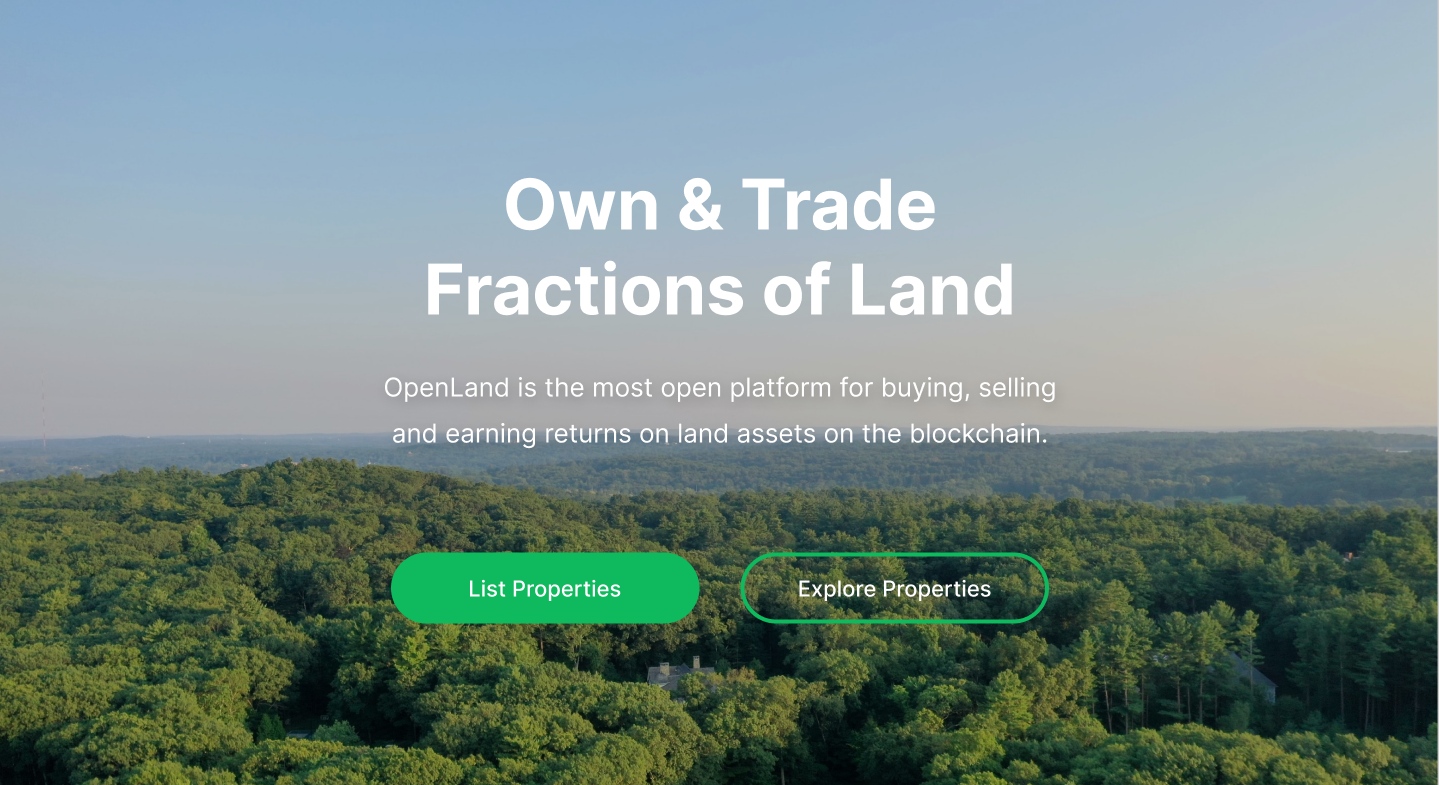
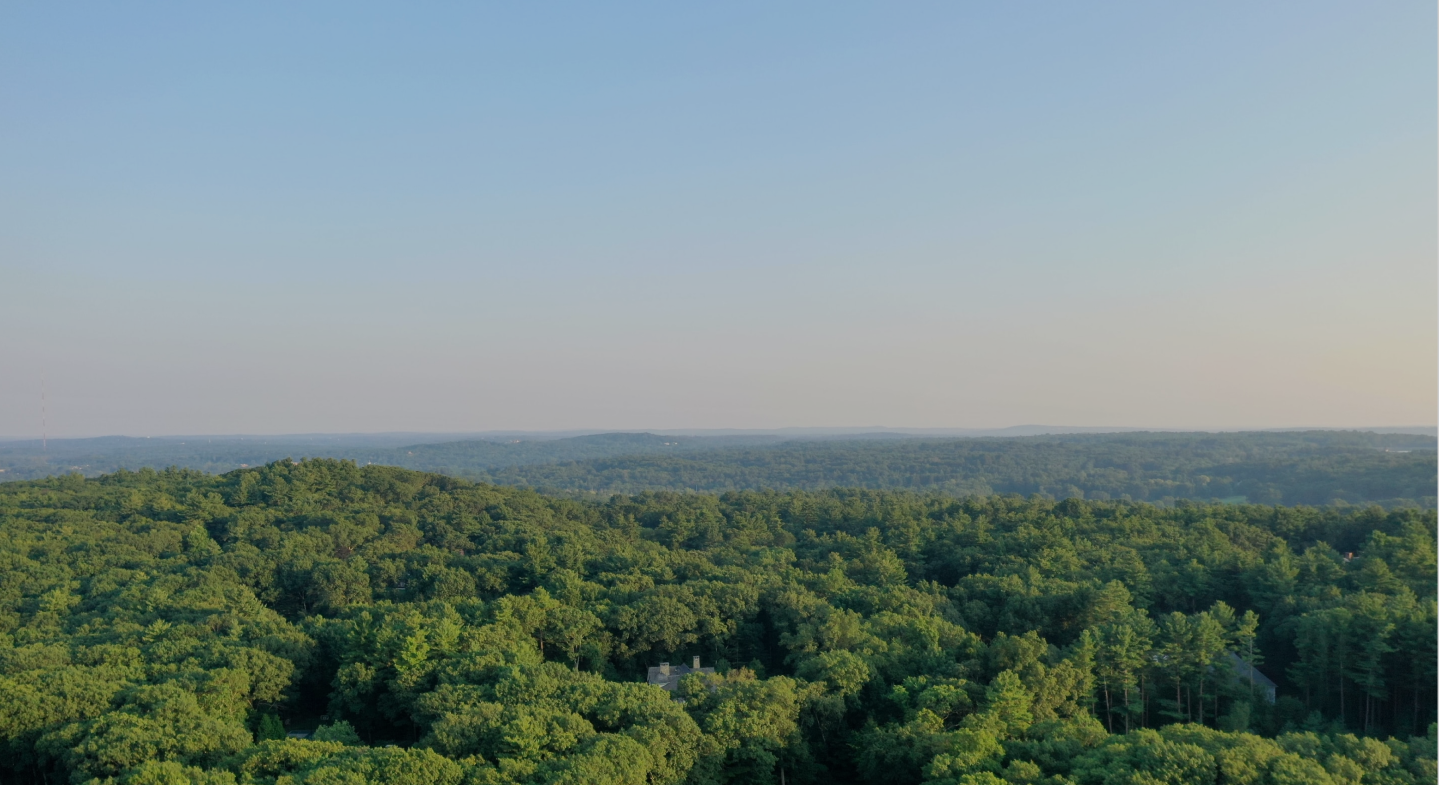
FIx mobile responsive layout

diff --git a/pages/index.tsx b/pages/index.tsx
@@ -1,5 +1,6 @@
 import type { NextPage } from "next";
 import Head from "next/head";
+import Link from "next/link";
 
 import FeaturesCard from "../components/pages/index/FeaturesCard/FeaturesCard";
 import AffordableIcon from "../public/assets/images/svg/affordable.svg";
@@ -7,6 +8,8 @@ import truthlessIcon from "../public/assets/images/svg/truthless.svg";
 import daoIcon from "../public/assets/images/svg/dao.svg";
 import commodityIcon from "../public/assets/images/svg/commodity.svg";
 import PropertiesCard from "../components/pages/index/PropertiesCard/PropertiesCard";
+import Button from "../components/ui/Button/Button";
+import TeamCard from "../components/TeamCard/TeamCard";
 
 const Home: NextPage = () => {
   return (
@@ -18,11 +21,21 @@ const Home: NextPage = () => {
       </Head>
 
       {/* HERO SECTION */}
-      <header className="w-full h-[80vh] bg-red-50 relative">
-        <img
-          src="/assets/images/png/hero.png"
-          className="w-full h-full object-cover"
-        />
+      <header className="w-full h-[80vh] lg:h-[100vh] grid place-content-center bg-[url('/assets/images/png/hero.png')]">
+        <div className="2xl:w-[710px] w-[345px] lg:w-[648px]">
+          <h1 className="mb-[33px] font-bold 2xl:text-[70px] text-[36px] lg:text-[64px] text-center text-white">
+            Own &amp; Trade Fractions of Land
+          </h1>
+          <p className="text-base lg:text-xl text-center text-white 2xl:text-[26px] mb-8 lg:mb-[96px]">
+            OpenLand is the most open platform for buying, selling and earning
+            returns on land assets on the blockchain.
+          </p>
+          <div className="flex-col lg:flex-row flex justify-between">
+            <Button btnType="fill">List your property</Button>
+            <div className="mb-4 lg:mb-0 lg:hidden" />
+            <Button btnType="outline">Explore Properties</Button>
+          </div>
+        </div>
       </header>
 
       {/* FEATURES */}
@@ -56,6 +69,11 @@ const Home: NextPage = () => {
           * The values mentioned are just for examples only and do not mean
           actual ownership figures in a particular vault.
         </p>
+        <div className="flex-col lg:flex-row flex w-full lg:w-[550px] mx-auto justify-between">
+          <Button btnType="fill">List your property</Button>
+          <div className="mb-4 lg:mb-0 lg:hidden" />
+          <Button btnType="outline">Explore Properties</Button>
+        </div>
       </section>
 
       {/* FEATURED PROPERTIES */}
@@ -70,7 +88,9 @@ const Home: NextPage = () => {
             </p>
           </div>
 
-          <span>BUTTON</span>
+          <div className="hidden lg:block">
+            <Button btnType="outline-white">View all</Button>
+          </div>
         </div>
 
         <div className={styles.featuredPropertiesCardContainer}>
@@ -78,19 +98,77 @@ const Home: NextPage = () => {
             return <PropertiesCard key={idx} property={property} />;
           })}
         </div>
+
+        <div className="grid place-content-center lg:hidden">
+          <Button btnType="outline-white">View all</Button>
+        </div>
       </section>
 
-      <section className="bg-[#F9F9F9] py-[120px] px-[70px]">
-          <h3 className="font-semibold text-[42px] mb-20">Built on</h3>
+      <section className="bg-[#F9F9F9] py-[120px] px-4 lg:px-[70px]">
+        <h3 className="font-semibold text-[42px] text-center lg:text-left mb-20">Built on</h3>
 
-          <div className="flex items-center">
-            <img src="/assets/images/svg/moonriver.svg" className="w-[511px] h-[108px]" alt="moon_river" />
-            <img src="/assets/images/svg/moonbeam.svg" className="w-[571px] h-[160px]" alt="moon_beam" />
-          </div>
+        <div className="flex lg:flex-row flex-col items-center">
+          <img
+            src="/assets/images/svg/moonriver.svg"
+            className="w-[511px] h-[108px]"
+            alt="moon_river"
+          />
+          <img
+            src="/assets/images/svg/moonbeam.svg"
+            className="w-[571px] h-[160px]"
+            alt="moon_beam"
+          />
+        </div>
+      </section>
+
+      <section className="py-[120px] px-4 lg:px-[70px]">
+        <h3 className="mb-[27px] font-semibold text-[42px]">
+          The Team behind OpenLand
+        </h3>
+
+        <p className="text-lg text-[#555555]">
+          OpenLand was built with love for Africa{" "}
+          <span className="text-red-500">&hearts;</span>{" "}
+          <span className="text-sm">Powered by</span>{" "}
+          <Link href="#">
+            <a className="font-normal text-lg text-black underline">
+              Origne LLC
+            </a>
+          </Link>
+        </p>
+
+        <div className="mt-[75px] flex flex-wrap">
+          {TEAMS.map((team) => (
+            <TeamCard team={team} key={team.name} />
+          ))}
+        </div>
       </section>
     </>
   );
 };
+
+const TEAMS = [
+  {
+    image: "/assets/images/png/avatar.png",
+    name: "Oluwafemi Alofe",
+    title: "Blockchain Developer",
+  },
+  {
+    image: "/assets/images/png/avatar.png",
+    name: "Emmanuel Joseph",
+    title: "Fullstack Developer",
+  },
+  {
+    image: "/assets/images/png/avatar.png",
+    name: "Paul Oladimeji",
+    title: "Product Manager",
+  },
+  {
+    image: "/assets/images/png/avatar.png",
+    name: "Abosede Mayungbe",
+    title: "Product Designer",
+  },
+];
 
 const APPLICATION_FEATURES = [
   {
@@ -175,22 +253,24 @@ const FEATURED_PROPERTIES = [
 ];
 
 const styles = {
-  featuresContainer: "py-[120px] bg-color-tertiary",
+  featuresContainer: "lg:py-[120px] py-[64px] bg-color-tertiary",
   featuresHeading: "mb-16",
   featuresHeadingText: "font-semibold text-[42px] text-center mb-3",
-  featuresHeadingDescription: "max-w-3xl mx-auto text-center",
-  FeaturesCardContainer: "grid gap-6 grid-cols-4 mx-[70px]",
-  descriptionImageContainer: "py-[120px]",
-  descriptionImageContainer_: "2xl:w-[1137px] w-[1039px] mx-auto mb-[62px]",
+  featuresHeadingDescription:
+    "max-w-3xl text-[18px] text-[#555555] px-4 mx-auto text-center",
+  FeaturesCardContainer: "flex flex-wrap mx-[16px] lg:mx-[70px]",
+  descriptionImageContainer: "lg:py-[120px] py-[60px] lg:px-0 px-[16px]",
+  descriptionImageContainer_:
+    "2xl:w-[1137px] w-full lg:w-[1039px] mx-auto mb-[62px]",
   descriptionImage: "w-full h-full object-cover",
   descriptionImageDescription:
-    "ml-auto text-right max-w-[543px] 2xl:max-w-[597px] mr-[70px] text-[#999999] text-sm",
+    "ml-auto text-right max-w-[543px] 2xl:max-w-[597px] lg:mr-[70px] text-[#999999] text-xs lg:text-sm mb-[70px]",
   featuredPropertiesContainer:
-    "bg-color-secondary px-16 2xl:px-[72px] py-[120px]",
+    "bg-color-secondary px-[16px] 2xl:px-[72px] py-[60px] lg:py-[120px]",
   featuredPropertiesContainer_: "mb-[82px] flex items-center justify-between",
   featuredPropertiesContainerHeading: "text-[42px] font-semibold text-white",
   featuredPropertiesContainerDescription: "text-lg text-white",
-  featuredPropertiesCardContainer: "grid grid-cols-3",
+  featuredPropertiesCardContainer: "flex flex-wrap",
 };
 
 export default Home;

diff --git a/components/Footer/Footer.tsx b/components/Footer/Footer.tsx
@@ -1,8 +1,8 @@
 const Footer = () => {
   return (
-    <footer className="bg-[#002C14] p-[70px]">
-      <div className="flex items-center justify-between mb-[64px]">
-        <div>
+    <footer className="bg-[#002C14] px-4 py-16 lg:p-[70px]">
+      <div className="flex px-4 flex-col lg:flex-row items-center justify-between mb-[64px]">
+        <div className="mb-8 lg:mb-0">
           <img
             src="/assets/images/svg/logo-text.svg"
             alt="logo"
@@ -14,32 +14,32 @@ const Footer = () => {
         </div>
 
         <ul className="flex">
-          <li className="w-[57px] cursor-pointer h-[57px] grid place-content-center mr-8 rounded-[50%] bg-[#E3FCEF]">
+          <li className="w-[57px] cursor-pointer h-[57px] grid place-content-center mr-8 rounded-[50%] bg-[rgba(227,252,239,0.24)]">
             <img
               src="/assets/images/svg/twitter.svg"
               alt="twitter"
-              className="w-[41px] h-[41px]"
+              className="w-6 lg:w-[41px] h-6 lg:h-[41px]"
             />
           </li>
-          <li className="w-[57px] cursor-pointer h-[57px] grid place-content-center mr-8 rounded-[50%] bg-[#E3FCEF]">
+          <li className="w-[57px] cursor-pointer h-[57px] grid place-content-center mr-8 rounded-[50%] bg-[rgba(227,252,239,0.24)]">
             <img
               src="/assets/images/svg/instagram.svg"
               alt="instagram"
-              className="w-[41px] h-[41px]"
+              className="w-6 lg:w-[41px] h-6 lg:h-[41px]"
             />
           </li>
-          <li className="w-[57px] cursor-pointer h-[57px] grid place-content-center mr-8 rounded-[50%] bg-[#E3FCEF]">
+          <li className="w-[57px] cursor-pointer h-[57px] grid place-content-center mr-8 rounded-[50%] bg-[rgba(227,252,239,0.24)]">
             <img
               src="/assets/images/svg/telegram.svg"
               alt="telegram"
-              className="w-[41px] h-[41px]"
+              className="w-6 lg:w-[41px] h-6 lg:h-[41px]"
             />
           </li>
-          <li className="w-[57px] cursor-pointer h-[57px] grid place-content-center mr-8 rounded-[50%] bg-[#E3FCEF]">
+          <li className="w-[57px] cursor-pointer h-[57px] grid place-content-center mr-8 rounded-[50%] bg-[rgba(227,252,239,0.24)]">
             <img
               src="/assets/images/svg/youtube.svg"
               alt="youtube"
-              className="w-[41px] h-[41px]"
+              className="w-6 lg:w-[41px] h-6 lg:h-[41px]"
             />
           </li>
         </ul>
@@ -47,7 +47,9 @@ const Footer = () => {
 
       <hr className="border border-white" />
 
-      <p className="font-light text-sm mt-6 text-white">Copyright © OpenLand 2022. All rights reserved. </p>
+      <p className="font-light text-sm mt-6 text-white">
+        Copyright © OpenLand 2022. All rights reserved.{" "}
+      </p>
     </footer>
   );
 };

diff --git a/components/ui/Button/Button.tsx b/components/ui/Button/Button.tsx
@@ -2,25 +2,22 @@ import { FC, ReactNode } from "react";
 
 interface ButtonProps {
   children: ReactNode;
-  btnType: "outline" | "fill";
-  padding: string;
-  fontSize: string;
-  fontWeight: string;
+  btnType: "outline" | "fill" | "outline-white";
 }
 
 const Button: FC<ButtonProps> = (props) => {
-  const { children, btnType, padding, fontSize, fontWeight } = props;
+  const { children, btnType } = props;
 
-  const outline_or_fill =
+  const outline_or_fill_or_outline_white =
     btnType === "fill"
-      ? ""
+      ? "bg-color-primary text-white"
       : btnType === "outline"
-      ? "bg-white border border-color-primary text-color-primary"
-      : "";
+      ? "bg-transparent border text-color-primary border-color-primary"
+      : "bg-transparent border border-color-tertiary text-white opacity-90";
 
   return (
     <button
-      className={`${outline_or_fill} ${padding} ${fontSize} ${fontWeight} rounded-[40px]`}
+      className={`${outline_or_fill_or_outline_white} hover:shadow-md hover:-translate-y-1 duration-100 px-11 py-[17px] font-medium rounded-[40px]`}
     >
       {children}
     </button>

diff --git a/components/TeamCard/TeamCard.tsx b/components/TeamCard/TeamCard.tsx
@@ -1,0 +1,38 @@
+import { FC } from "react";
+
+interface TeamCardProps {
+  team: {
+    image: string;
+    name: string;
+    title: string;
+    linkedinURL?: string;
+  };
+}
+
+const TeamCard: FC<TeamCardProps> = (props) => {
+  const {
+    team: { image, name, title, linkedinURL },
+  } = props;
+
+  return (
+    <div className="2xl:w-[313.5px] w-[286px] mb-5 hover:-translate-y-1 duration-100 hover:shadow-md mx-auto py-10 px-[39px] 2xl:px-[44.75px] rounded-lg bg-color-tertiary">
+      <div className="w-[204px] 2xl:w-[218px] h-[204px] 2xl:h-[218px] rounded-[50%] mb-10">
+        <img src={image} alt={name} className="w-full h-full object-cover" />
+      </div>
+
+      <div className="flex items-center justify-between">
+        <div>
+          <h6 className="font-medium text-xl text-[#16231C] mb-1">{name}</h6>
+          <p className="font-medium text-color-primary">{title}</p>
+        </div>
+
+        <img
+          src="/assets/images/svg/linkedin.svg"
+          className="w-[18px] h-[18px] cursor-pointer"
+        />
+      </div>
+    </div>
+  );
+};
+
+export default TeamCard;

diff --git a/components/Header/Header.tsx b/components/Header/Header.tsx
@@ -72,14 +72,7 @@ const Header = () => {
             </ul>
           </li>
           <li>
-            <Button
-              btnType="outline"
-              fontSize="2xl:font-[18px] font-[14px]"
-              fontWeight="font-semibold"
-              padding="py-[17px] px-[40px]"
-            >
-              Buy Fractions
-            </Button>
+            <Button btnType="outline">Buy Fractions</Button>
           </li>
           <li className="2xl:w-[52px] w-[47px] h-[47px] 2xl:h-[52px] rounded-[100px] bg-[#F7F8F8] grid place-content-center overflow-hidden">
             <Image src={SettingGear} alt="settings" width="22" height="22" />

diff --git a/components/pages/index/FeaturesCard/FeaturesCard.tsx b/components/pages/index/FeaturesCard/FeaturesCard.tsx
@@ -15,7 +15,7 @@ const FeaturesCard: FC<FeaturesCardProps> = (props) => {
   } = props;
 
   return (
-    <div className="w-[280px] 2xl:w-[307px] text-left">
+    <div className="w-full lg:w-[280px] 2xl:w-[307px] mb-10 lg:mb-0 text-left">
       <Image src={featureIcon} width="78" height="78" alt={featureHeading} />
       <h4 className="mt-6 font-semibold text-[26px]">{featureHeading}</h4>
       <p className="text-lg text-[#555555] mt-4">{featureDescription}</p>

diff --git a/tailwind.config.js b/tailwind.config.js
@@ -4,10 +4,8 @@ module.exports = {
     "./components/**/*.{js,ts,jsx,tsx}",
   ],
   theme: {
-    screens: {
-      '2xl': "1400px",
-    },
     extend: {
+      screens: { "2xl": "1400px" },
       colors: {
         "color-primary": "#0FB95D",
         "color-secondary": "#3F5448",

diff --git a/components/HOC/Layout/Layout.tsx b/components/HOC/Layout/Layout.tsx
@@ -12,7 +12,7 @@ const Wrapper: FC<WrapperProps> = (props) => {
 
   return (
     <>
-      <Header />
+      {/* <Header /> */}
       <main className="pt-[93px]">{children}</main>
       <Footer />
     </>
